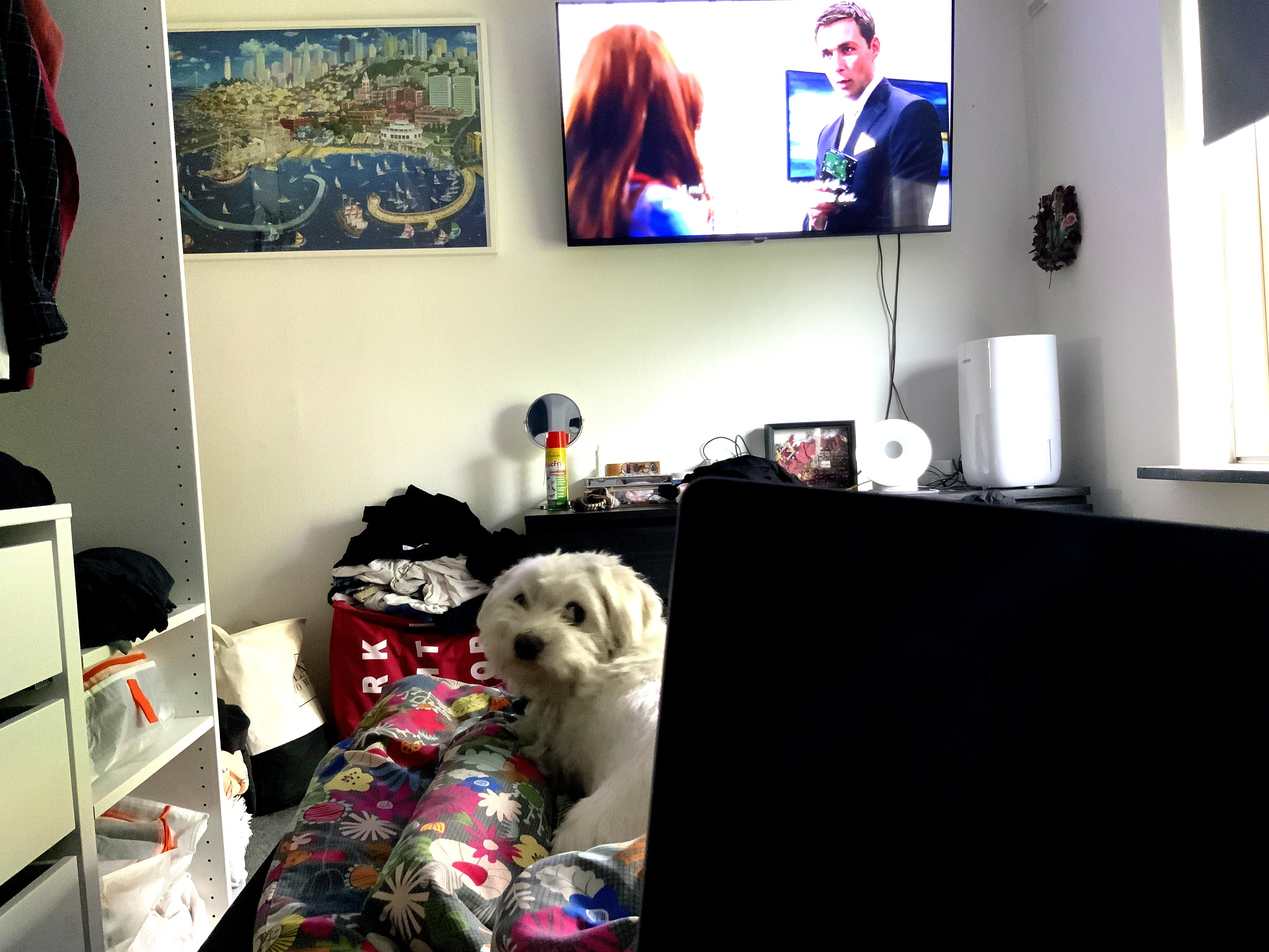
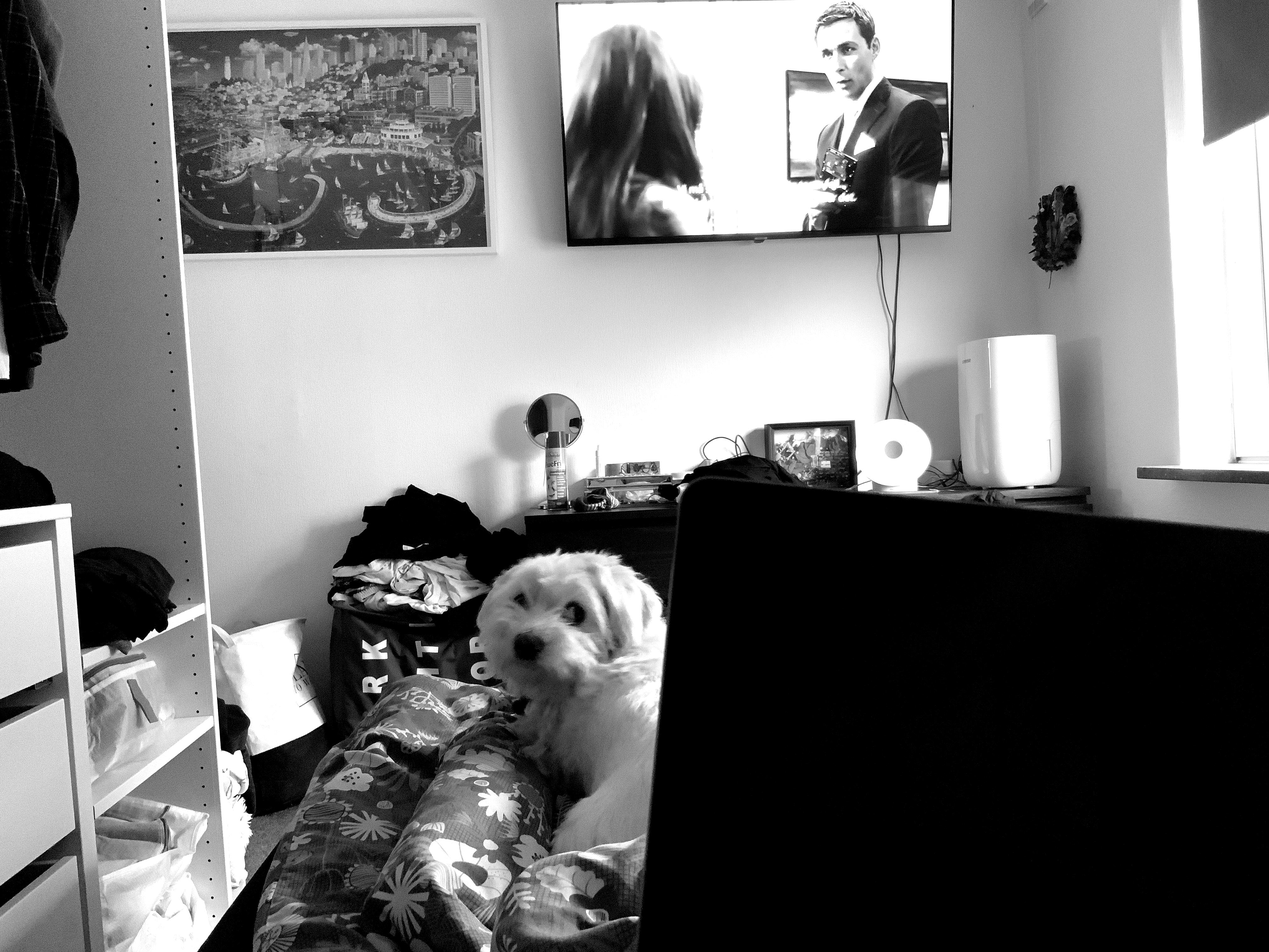
grey scale to the picture

diff --git a/Python/picture-enhance-project.py/photo-editor.py b/Python/picture-enhance-project.py/photo-editor.py
@@ -1,3 +1,5 @@
+# Picture edit using Python and  Pillow.
+
 from PIL import Image, ImageEnhance, ImageFilter
 
 import os 
@@ -8,7 +10,7 @@ pathOut = '/editedImgs'
 for filename in os.listdir(path):
     img = Image.open(f"{path}/{filename}")
 
-    edit = img.filter(ImageFilter.SHARPEN)
+    edit = img.filter(ImageFilter.SHARPEN).convert("L")
     
     factor = 1.5
     enhancer = ImageEnhance.Contrast(edit)
@@ -17,3 +19,4 @@ for filename in os.listdir(path):
     clean_name = os.path.splitext(filename)[0]
     
     edit.save(f'.{pathOut}/{clean_name}_edited.jpg')
+    
